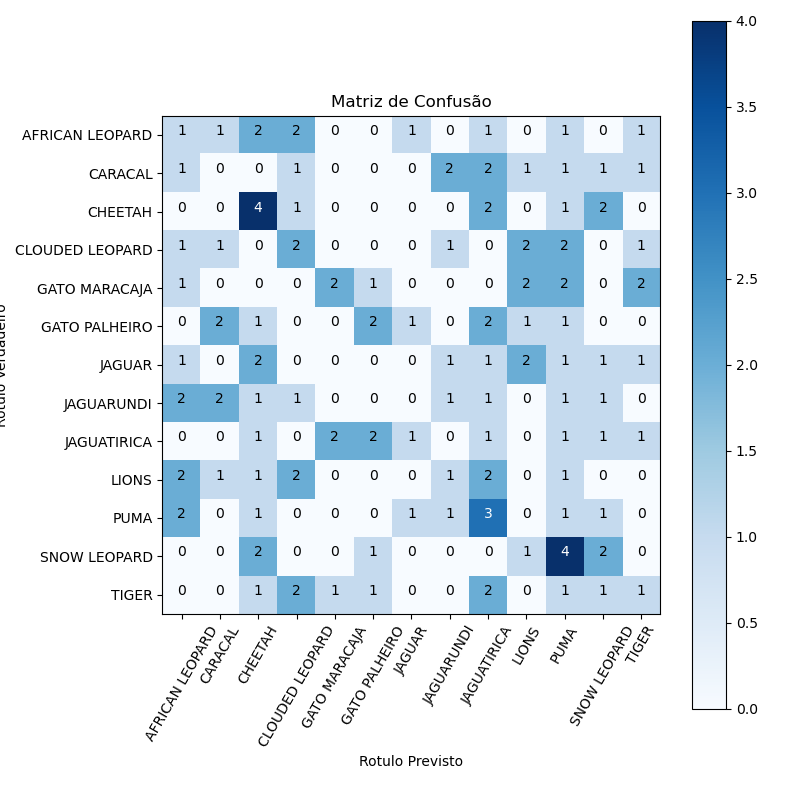
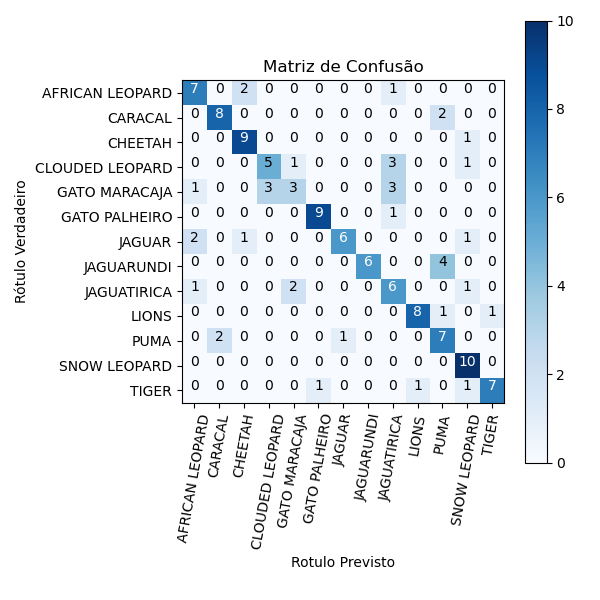
Remoção de código não utilizado

diff --git a/main.py b/main.py
@@ -1,22 +1,13 @@
-from datetime import datetime
-
 import numpy as np
 import sklearn
 from sklearn.metrics import classification_report
-import keras
-import matplotlib.pyplot as plt
 
 import os
-import seaborn as sns
-import tensorboard
 import tensorflow as tf
 import pathlib
-
-from keras.applications import VGG16, VGG19
 from keras_preprocessing.image import ImageDataGenerator
-from keras.callbacks import ModelCheckpoint
 from keras.layers import LeakyReLU
-from keras.layers import Resizing, Dense, Dropout, Activation, Flatten, Conv2D, MaxPooling2D, Rescaling
+from keras.layers import Resizing, Dense, Dropout, Flatten, Conv2D, MaxPooling2D, Rescaling
 from keras.models import Sequential
 
 from sklearn.metrics import classification_report, confusion_matrix
@@ -28,12 +19,10 @@ from modelostransferlearning import ModeloTransferLearning
 # Dados globais
 img_size = (224, 224)
 batch_size = 32
-epochs = 4
-
+epochs = 20
 
 # Carregamento das imagens da amostra
 path_treinamento = pathlib.Path(os.path.join("E:/USP_ESALQ", "ProjetoClassificacaoGatos", "Dados", "train"))
-#path_validacao = pathlib.Path(os.path.join("E:/USP_ESALQ", "ProjetoClassificacaoGatos", "Dados", "valid"))
 path_teste = pathlib.Path(os.path.join("E:/USP_ESALQ", "ProjetoClassificacaoGatos", "Dados", "test"))
 
 gerador_aumento_dados = ImageDataGenerator(
@@ -41,57 +30,25 @@ gerador_aumento_dados = ImageDataGenerator(
     width_shift_range=0.2,  # horizontal shift
     height_shift_range=0.2,  # vertical shift
     zoom_range=0.2,  # zoom
-    horizontal_flip=True  # horizontal flip
+    horizontal_flip=True,  # horizontal flip
+    validation_split=0.2
 )
 
-dados_treinamento = gerador_aumento_dados.flow_from_directory(path_treinamento, target_size=img_size, class_mode='categorical',shuffle=True, subset='training',)
-dados_validacao = gerador_aumento_dados.flow_from_directory(path_treinamento, target_size=img_size, class_mode='categorical',shuffle=True, subset='validation',)
-dados_teste = gerador_aumento_dados.flow_from_directory(path_teste, target_size=img_size, class_mode='categorical',shuffle=False)
+dados_treinamento = gerador_aumento_dados.flow_from_directory(path_treinamento, target_size=img_size,
+                                                              class_mode='categorical', shuffle=True,
+                                                              subset='training')
+dados_validacao = gerador_aumento_dados.flow_from_directory(path_treinamento, target_size=img_size,
+                                                            class_mode='categorical', shuffle=True,
+                                                            subset='validation')
+dados_teste = gerador_aumento_dados.flow_from_directory(path_teste, target_size=img_size, class_mode='categorical',
+                                                        shuffle=False)
 
 image_count = len(list(path_treinamento.glob('*/*.jpg')))
 print("total de imagens de treino:", image_count)
 nome_classes = os.listdir(path_treinamento)
 print("classes:", os.listdir(path_treinamento))
 
-
-"""
-train_dataset = tf.keras.utils.image_dataset_from_directory(
-    path_treinamento,
-    labels="inferred",
-    label_mode="categorical",
-    subset="training",
-    validation_split=0.2,
-    seed=321,
-    image_size=(img_size[0], img_size[1]),
-    batch_size=batch_size,
-    shuffle=True)
-
-test_dataset = tf.keras.utils.image_dataset_from_directory(
-        path_teste,
-        labels="inferred",
-        label_mode="categorical",
-        subset=None,
-        validation_split=None,
-        seed=321,
-        image_size=(img_size[0], img_size[1]),
-        batch_size=batch_size)
-
-validation_dataset = tf.keras.utils.image_dataset_from_directory(
-    path_treinamento,
-    labels="inferred",
-    label_mode="categorical",
-    subset="validation",
-    validation_split=0.2,
-    seed=321,
-    image_size=(img_size[0], img_size[1]),
-    batch_size=batch_size,
-    shuffle=True)
-"""
 numero_classes = dados_treinamento.num_classes
-
-# Data Augmentation - ImageDataGenerator
-
-
 
 ############################################# MODELO 0 - VGG16 #############################################
 
@@ -102,25 +59,19 @@ vgg16Model.summary()
 hist_vgg16 = vgg16Model.fit(dados_treinamento,
                             epochs=epochs,
                             validation_data=dados_validacao,
-                            validation_steps= dados_validacao.__len__() // batch_size,
-                            validation_split=0.2
+                            validation_steps=dados_validacao.__len__() // batch_size
                             )
 
 vgg16Model.save_weights("pesosvgg16.h5")
 
 ##matriz de confusao
 predicao_vgg16 = vgg16Model.predict(dados_teste)
-
 test_pred = np.argmax(predicao_vgg16, axis=1)
-
-#test_labels = np.concatenate([y for x, y in dados_teste], axis=0)
-
-#test_labels = np.argmax(test_labels.__array__(), axis=1)
 
 test_labels = dados_teste.classes
 
 # Relatorio metrico
-print(classification_report(test_labels, test_pred, labels=nome_classes, zero_division=0))
+print(classification_report(test_labels, test_pred, zero_division=0, target_names= nome_classes))
 
 # Calcular the confusion matrix using sklearn.metrics
 cm = sklearn.metrics.confusion_matrix(test_labels, test_pred)
@@ -132,7 +83,6 @@ plt.close(figure)
 figure = plt.figure(figsize=(8, 8))
 plt.title('Precisao VGG-16')
 plt.plot(hist_vgg16.history["precision"], label="Dados de Treino")
-plt.plot(hist_vgg16.history["val_precision"], label="Dados de Validação")
 plt.legend()
 plt.xlabel('Epoch')
 plt.ylabel('Precisão')
@@ -143,7 +93,6 @@ plt.close(figure)
 figure = plt.figure(figsize=(8, 8))
 plt.title('Acurácia VGG-16')
 plt.plot(hist_vgg16.history["accuracy"], label="Dados de Treino")
-plt.plot(hist_vgg16.history["val_accuracy"], label="Dados de Validação")
 plt.legend()
 plt.xlabel('Epoch')
 plt.ylabel('Acurácia')
@@ -156,14 +105,14 @@ plt.show()
 ############################################# MODELO 1 - VGG19 #############################################
 
 vgg19Model = ModeloTransferLearning().novaredevgg19(numero_classes)
-#resumo das camadas do modelo
+# resumo das camadas do modelo
 vgg19Model.summary()
 # Treinando o modelo
 hist_vgg19 = vgg19Model.fit(dados_treinamento,
                             epochs=epochs,
                             validation_data=dados_validacao,
                             validation_steps=dados_validacao.__len__() // batch_size,
-                            validation_split=0.2)
+                            )
 
 vgg19Model.save_weights("pesosvgg19.h5")
 
@@ -171,13 +120,13 @@ vgg19Model.save_weights("pesosvgg19.h5")
 predicao_vgg19 = vgg19Model.predict(dados_teste, batch_size=batch_size)
 test_pred = np.argmax(predicao_vgg19, axis=1)
 
-#test_labels = np.concatenate([y for x, y in dados_teste], axis=0)
-#test_labels = np.argmax(test_labels, axis=1)
+# test_labels = np.concatenate([y for x, y in dados_teste], axis=0)
+# test_labels = np.argmax(test_labels, axis=1)
 
 test_labels = dados_teste.classes
 
-#Relatorio
-print(classification_report(test_labels, test_pred, labels=nome_classes, zero_division=0))
+# Relatorio
+print(classification_report(test_labels, test_pred, zero_division=0, target_names= nome_classes))
 # Calcular the confusion matrix using sklearn.metrics
 cm = sklearn.metrics.confusion_matrix(test_labels, test_pred)
 figure, plt = MatrizConfusao.plot_confusion_matrix(cm, class_names=nome_classes)
@@ -186,7 +135,6 @@ plt.close(figure)
 
 # Precision and Validation Precision
 plt.plot(hist_vgg19.history["precision"], label="Dados de Treino")
-plt.plot(hist_vgg19.history["val_precision"], label="Dados de Validação")
 plt.title('Precisão VGG-19')
 plt.legend()
 plt.xlabel('Epoch')
@@ -196,14 +144,13 @@ plt.close(figure)
 
 # Accuracy and Validation Accuracy
 plt.plot(hist_vgg19.history["accuracy"], label="Dados de Treino")
-plt.plot(hist_vgg19.history["val_accuracy"], label="Dados de Validação")
 plt.title('Acurácia VGG-16')
 plt.legend()
 plt.xlabel('Epoch')
 plt.ylabel('Acurácia')
 figure.savefig('logs/acuraciaVGG19.png', format='png')
 plt.close(figure)
-plt.show()
+
 ############################################# MODELO 1 - VGG19 #############################################
 
 
@@ -213,37 +160,32 @@ modelo2 = Sequential()
 modelo2.add(Resizing(img_size[0], img_size[1], interpolation="bilinear", crop_to_aspect_ratio=True,
                      name='camada_redimensionamento'))
 
-modelo2.add(Rescaling(1. / 255, input_shape=(img_size[0], img_size[1], 3), name='camada de escalonamento'))
+modelo2.add(Rescaling(1. / 255, input_shape=(img_size[0], img_size[1], 3), name='camada_escalonamento'))
 
-modelo2.add(Conv2D(16, 3, padding='same', activation=LeakyReLU(alpha=0.05), name='camada intermediaria 1'))
+modelo2.add(Conv2D(16, 3, padding='same', activation=LeakyReLU(alpha=0.05), name='camada_intermediaria_1'))
 modelo2.add(MaxPooling2D(pool_size=(2, 2)))
 
-modelo2.add(Conv2D(32, 3, padding='same', activation=LeakyReLU(alpha=0.04), name='camada intermediaria 2'))
+modelo2.add(Conv2D(32, 3, padding='same', activation=LeakyReLU(alpha=0.04), name='camada_intermediaria_2'))
 modelo2.add(MaxPooling2D(pool_size=(2, 2)))
 
-modelo2.add(Conv2D(64, 3, padding='same', activation=LeakyReLU(alpha=0.01), name='camada intermediaria 3'))
+modelo2.add(Conv2D(64, 3, padding='same', activation=LeakyReLU(alpha=0.01), name='camada intermediaria_3'))
 
-modelo2.add(Conv2D(64, 3, padding='same', activation=LeakyReLU(alpha=0.01), name='camada intermediaria 4'))
+modelo2.add(Conv2D(64, 3, padding='same', activation=LeakyReLU(alpha=0.01), name='camada intermediaria_4'))
 modelo2.add(MaxPooling2D(pool_size=(2, 2)))
 
-modelo2.add(Conv2D(128, 3, padding='same', activation=LeakyReLU(alpha=0.01), name='camada intermediaria 5'))
+modelo2.add(Conv2D(128, 3, padding='same', activation=LeakyReLU(alpha=0.01), name='camada_intermediaria_5'))
 
-modelo2.add(Conv2D(128, 3, padding='same', activation=LeakyReLU(alpha=0.01), name='camada intermediaria 6'))
+modelo2.add(Conv2D(128, 3, padding='same', activation=LeakyReLU(alpha=0.01), name='camada_intermediaria_6'))
 modelo2.add(MaxPooling2D(pool_size=(2, 2)))
 
-modelo2.add(Dropout(0.3,name='camada de dropout 30%'),)
-
+modelo2.add(Dropout(0.3, name='camada_dropout_30'), )
 modelo2.add(Flatten())
-
 modelo2.add(Dense(128, activation=LeakyReLU(alpha=0.01)))
-
-modelo2.add(Dense(numero_classes, activation='softmax', name='camada de output - previsões'))
+modelo2.add(Dense(numero_classes, activation='softmax', name='camada_output - previsões'))
 
 modelo2.compile(optimizer='adam', loss=tf.keras.losses.CategoricalCrossentropy(from_logits=True),
                 metrics=['accuracy', tf.keras.metrics.Precision()])
 
 modelo2.build(input_shape=(image_count, img_size[0], img_size[1], 3))
-
 modelo2.summary()
-
 history2 = modelo2.fit(dados_treinamento, validation_data=dados_validacao, epochs=epochs, )

diff --git a/MatrizConfusao.py b/MatrizConfusao.py
@@ -18,12 +18,12 @@ def plot_confusion_matrix(cm, class_names):
        class_names (array, shape = [n]): String names of the integer classes
     """
 
-    figure = plt.figure(figsize=(8, 8))
+    figure = plt.figure(figsize=(6, 6))
     plt.imshow(cm, interpolation='nearest', cmap=plt.cm.Blues)
     plt.title("Matriz de Confusão")
     plt.colorbar()
     tick_marks = np.arange(len(class_names))
-    plt.xticks(tick_marks, class_names, rotation=60)
+    plt.xticks(tick_marks, class_names, rotation=80)
     plt.yticks(tick_marks, class_names)
 
     # Normalize the confusion matrix.
@@ -36,9 +36,9 @@ def plot_confusion_matrix(cm, class_names):
         color = "white" if cm[i, j] > threshold else "black"
         plt.text(j, i, cm[i, j], horizontalalignment="center", color=color)
 
-    plt.tight_layout()
     plt.ylabel('Rótulo Verdadeiro')
     plt.xlabel('Rotulo Previsto')
+    plt.tight_layout()
     return figure, plt
 
 
@@ -66,22 +66,3 @@ def plot_to_image(figure):
     image = tf.expand_dims(image, 0)
 
     return image
-
-
-def log_confusion_matrix(modelo, test_dataset, batch_size):
-    # Use the model to predict the values from the test_images.
-    test_pred_raw = modelo.predict(test_dataset, batch_size=batch_size)
-
-    test_pred = np.argmax(test_pred_raw, axis=1)
-
-    test_labels = np.concatenate(list(test_dataset.map(lambda x, y: y)))
-
-    # Calculate the confusion matrix using sklearn.metrics
-    cm = sklearn.metrics.confusion_matrix(test_labels, test_pred)
-
-    figure = plot_confusion_matrix(cm, class_names=test_dataset.class_names)
-    cm_image = plot_to_image(figure)
-
-    # Log the confusion matrix as an image summary.
-    with file_writer_cm.as_default():
-        tf.summary.image("Confusion Matrix", cm_image, step=epoch)

diff --git a/modelostransferlearning.py b/modelostransferlearning.py
@@ -1,3 +1,4 @@
+import keras
 import tensorflow as tf
 from keras_preprocessing.image import ImageDataGenerator
 from keras.models import Sequential
@@ -24,7 +25,7 @@ class ModeloTransferLearning(object):
 
         vgg16model.compile(loss="categorical_crossentropy",
                            optimizer="rmsprop",
-                           metrics=["accuracy", tf.keras.metrics.Precision(), tf.keras.metrics.Recall()])
+                           metrics=['accuracy', keras.metrics.Precision(), keras.metrics.Recall()])
         return vgg16model
 
     def novaredevgg19(self, numero_classes):
@@ -45,5 +46,5 @@ class ModeloTransferLearning(object):
 
         vgg19model.compile(loss="categorical_crossentropy",
                            optimizer="rmsprop",
-                           metrics=["accuracy", tf.keras.metrics.Precision(), tf.keras.metrics.Recall()])
+                           metrics=['accuracy', keras.metrics.Precision(), keras.metrics.Recall()])
         return vgg19model
